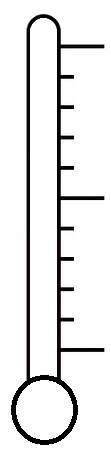
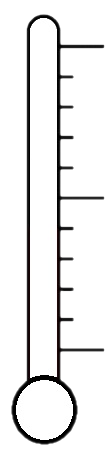
Removed White Background and made Images Transparent

diff --git a/main.py b/main.py
@@ -45,9 +45,9 @@ def search_key():
     x = y = 0
 
     STARTGOLDKEY=pygame.image.load('./Images/goldkey.png')
-    KEYPIC=pygame.image.load('Images/THE KEY.jpg')
+    KEYPIC=pygame.image.load('Images/THE KEY.png')
     BG=pygame.image.load('Images/jail background.jpg')
-    therm=pygame.image.load('Images/thermoLightBlu.jpg')
+    therm=pygame.image.load('Images/thermoLightBlu.png')
 
     rects=[0 for i in range(25)] #list for boxes in the game
     blacklist=[] #stores numbers of the boxes clicked (already)
@@ -102,7 +102,7 @@ def search_key():
             textSurf3, textRect3 = text_objects("HOW-TO-PLAY", howtotext)
             textRect3.center = ( (width/2), (height/2) + 225)
 
-            windowSurface.blit(pygame.transform.scale(STARTGOLDKEY,(200,100)),(412,70))
+            windowSurface.blit(pygame.transform.scale(KEYPIC,(200,100)),(412,70))
 
             if x>=buttonLeft and x<=buttonRight and y>=height/2+125 and y<=height/2+125+buttonHeight:
                 pygame.draw.rect(windowSurface, GOLD, startRect)
@@ -183,33 +183,33 @@ def search_key():
                         distance=sqrt((rec.center[0]-rects[key_idx-1].center[0])**2 + (rec.center[1]-rects[key_idx-1].center[1])**2)
                         # distance to hot/cold
                         if distance<=100:
-                            therm=pygame.image.load('Images/thermo+12Red.jpg')
+                            therm=pygame.image.load('Images/thermo+12Red.png')
                         if 100<distance<=142:
-                            therm=pygame.image.load('Images/thermo+11VermRed.jpg')
+                            therm=pygame.image.load('Images/thermo+11VermRed.png')
                         if 142<distance<=200:
-                            therm=pygame.image.load('Images/thermo+10Vermillion.jpg')
+                            therm=pygame.image.load('Images/thermo+10Vermillion.png')
                         if 200<distance<=224:
-                            therm=pygame.image.load('Images/thermo+9DOrange.jpg')
+                            therm=pygame.image.load('Images/thermo+9DOrange.png')
                         if 224<distance<=283:
-                            therm=pygame.image.load('Images/thermo+8Orange.jpg')
+                            therm=pygame.image.load('Images/thermo+8Orange.png')
                         if 283<distance<=300:
-                            therm=pygame.image.load('Images/thermo+7Orangyish.jpg')
+                            therm=pygame.image.load('Images/thermo+7Orangyish.png')
                         if 300<distance<=317:
-                            therm=pygame.image.load('Images/thermo+6Yellow.jpg')
+                            therm=pygame.image.load('Images/thermo+6Yellow.png')
                         if 317<distance<=361:
-                            therm=pygame.image.load('Images/thermo+5Yellow.jpg')
+                            therm=pygame.image.load('Images/thermo+5Yellow.png')
                         if 361<distance<=400:
-                            therm=pygame.image.load('Images/thermo+4Yellow.jpg')
+                            therm=pygame.image.load('Images/thermo+4Yellow.png')
                         if 400<distance<=413:
-                            therm=pygame.image.load('Images/thermo+3Yellow.jpg')
+                            therm=pygame.image.load('Images/thermo+3Yellow.png')
                         if 413<distance<=425:
-                            therm=pygame.image.load('Images/thermo+2Yellow.jpg')
+                            therm=pygame.image.load('Images/thermo+2Yellow.png')
                         if 425<distance<=448:
-                            therm=pygame.image.load('Images/thermo+1PaleYellow.jpg')
+                            therm=pygame.image.load('Images/thermo+1PaleYellow.png')
                         if 448<distance<=500:
-                            therm=pygame.image.load('Images/thermoPaleYellow.jpg')
+                            therm=pygame.image.load('Images/thermoPaleYellow.png')
                         if 500<distance<=566:
-                            therm=pygame.image.load('Images/thermoLightBlu.jpg')
+                            therm=pygame.image.load('Images/thermoLightBlu.png')
 
                         windowSurface.blit(therm,therm.get_rect(center=(8*size[0]/10,size[1]/2)))
                         clicked=rec
